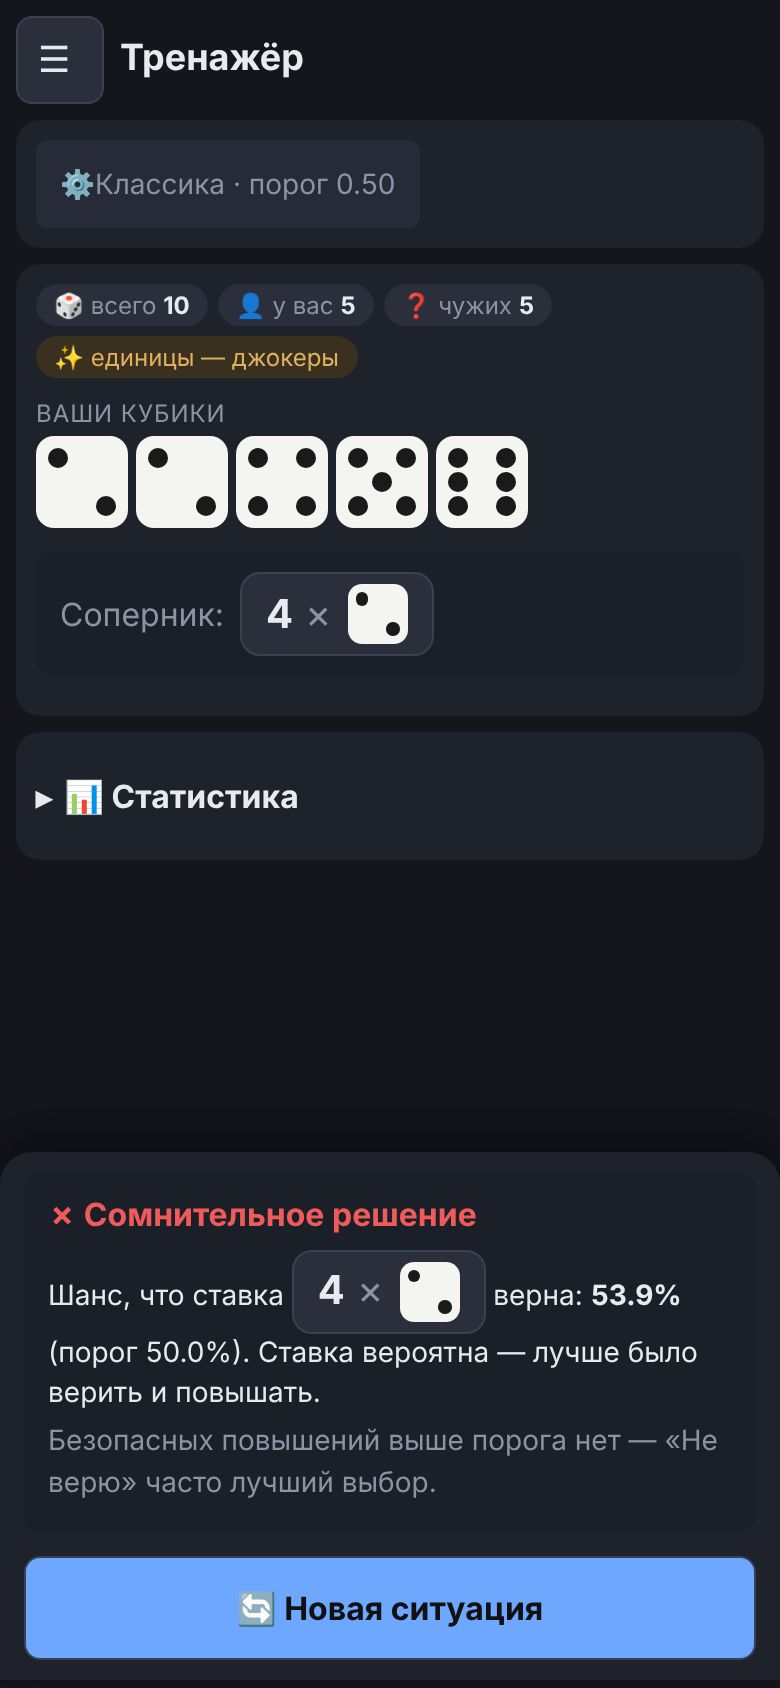
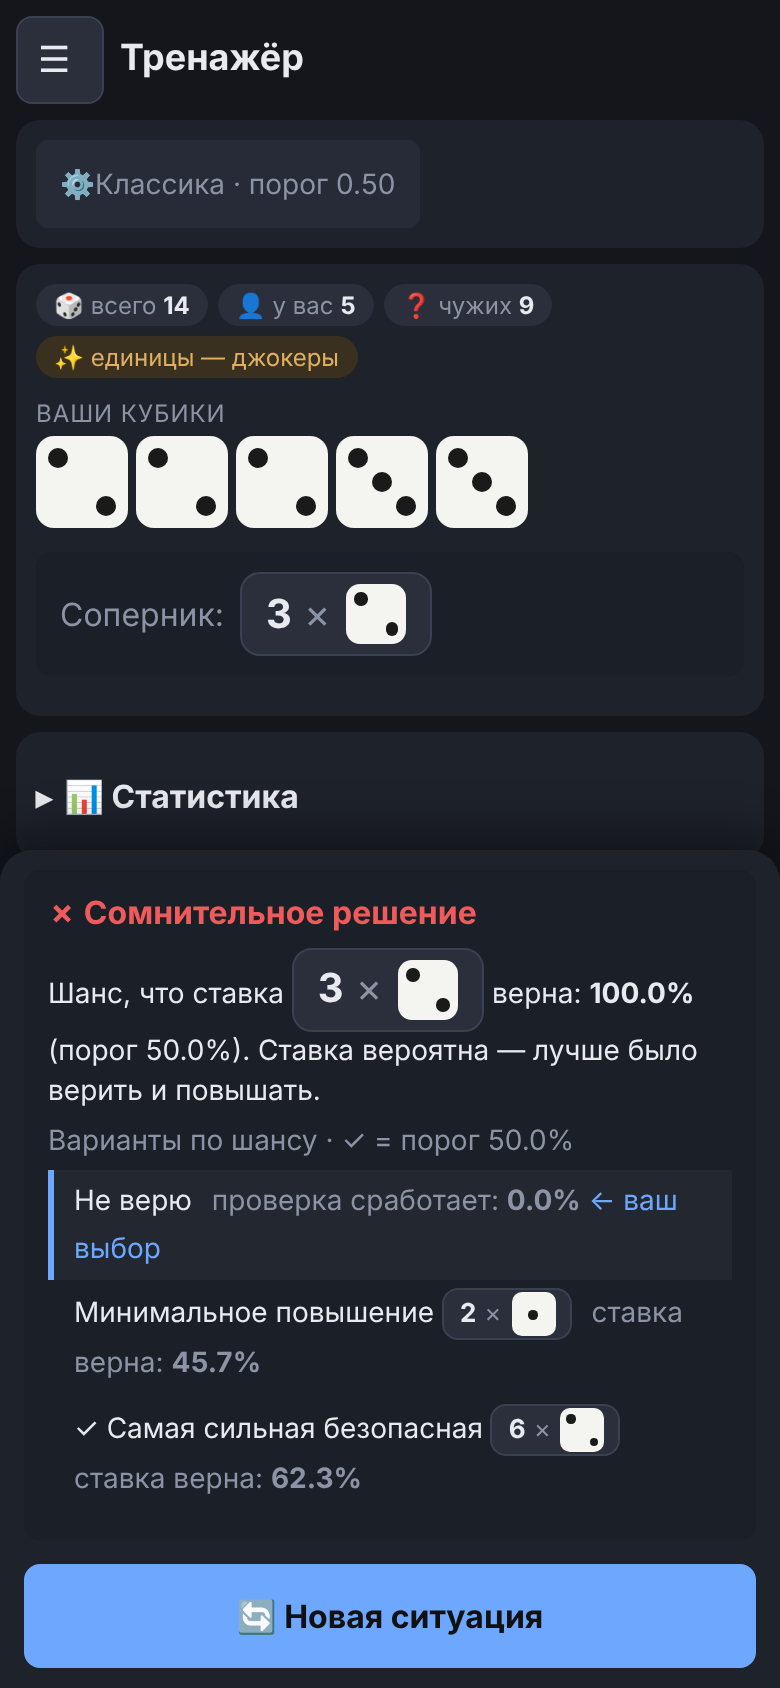
feat: Тренажёр показывает варианты хода по шансу ставки
После ответа вместо одной строки о безопасной ставке — список: «Не верю», минимальное повышение, самая сильная безопасная ставка; выбранный вариант отмечен.

diff --git a/src/ui/trainer.js b/src/ui/trainer.js
@@ -3,7 +3,8 @@
 import { getStats, updateStats, getTrainingQueue, setTrainingQueue } from '../storage.js';
 import { renderDie, renderHand, renderBid } from '../table.js';
 import { P, $, $$, pct, flash } from './common.js';
-import { MODES, modeLabel, bestSafeRaise } from './modes.js';
+import { MODES, modeLabel } from './modes.js';
+import { compareOptions, markChosen } from '../compare.js';
 
 export function setupTrainer() {
   if (!P) return;
@@ -114,19 +115,29 @@ export function setupTrainer() {
     el.textContent = `${modeLabel($('#tMode').value)} · порог ${thr}`;
   }
 
-  function bestRaiseThreshold() {
-    if (!cur) return null;
-    return bestSafeRaise(
-      { q: cur.q, f: cur.f }, cur.n, cur.h,
-      { wild: cur.m.wild }, +$('#tT').value
-    );
-  }
-
-  function hint() {
-    const b = bestRaiseThreshold();
-    return b
-      ? `<p class="muted">Самая сильная безопасная ставка: ${renderBid(b.q, b.f)} (${pct(b.p)}).</p>`
-      : '<p class="muted">Безопасных повышений выше порога нет — «Не верю» часто лучший выбор.</p>';
+  /** Варианты хода по шансу ставки; choice — что выбрал игрок: { type: 'dudo' } или { type: 'raise', q, f }. */
+  function hint(choice) {
+    if (!cur) return '';
+    const thr = +$('#tT').value;
+    const { options } = compareOptions({
+      bid: { q: cur.q, f: cur.f }, total: cur.n, hand: cur.h, wild: cur.m.wild,
+      threshold: thr, probBid: (...args) => P.probBid(...args),
+    });
+    const rows = markChosen(options, choice).map((o) => {
+      const bid = o.type === 'dudo' ? '' : ` ${renderBid(o.q, o.f, 'xs')}`;
+      const name = o.type === 'dudo' ? 'Не верю'
+        : o.type === 'safeRaise' ? 'Самая сильная безопасная'
+          : `Минимальное повышение${o.isBestSafe ? ' (она же самая сильная безопасная)' : ''}`;
+      const what = o.type === 'dudo' ? 'проверка сработает:' : 'ставка верна:';
+      return `<li class="trainer-option${o.chosen ? ' is-chosen' : ''}">` +
+        `<span class="trainer-option-name">${o.meetsThreshold ? '✓ ' : ''}${name}${bid}</span> ` +
+        `<span class="trainer-option-chance">${what} <b>${pct(o.success)}</b></span>` +
+        `${o.chosen ? ' <span class="trainer-option-mark">← ваш выбор</span>' : ''}</li>`;
+    }).join('');
+    const anySafe = options.some((o) => o.type !== 'dudo' && o.meetsThreshold);
+    return `<p class="muted">Варианты по шансу · ✓ = порог ${pct(thr)}</p>` +
+      `<ul class="trainer-options">${rows}</ul>` +
+      (anySafe ? '' : '<p class="muted">Безопасных повышений выше порога нет — «Не верю» часто лучший выбор.</p>');
   }
 
   function answer(good, html) {
@@ -169,7 +180,7 @@ export function setupTrainer() {
     const p = P.probBid(q, f, n, h, m.wild);
     const msg = p < t ? 'Ставка слишком смелая — «Не верю» оправдано.'
       : 'Ставка вероятна — лучше было верить и повышать.';
-    answer(p < t, `<p>Шанс, что ставка ${renderBid(q, f)} верна: <b>${pct(p)}</b> (порог ${pct(t)}). ${msg}</p>${hint()}`);
+    answer(p < t, `<p>Шанс, что ставка ${renderBid(q, f)} верна: <b>${pct(p)}</b> (порог ${pct(t)}). ${msg}</p>${hint({ type: 'dudo' })}`);
   };
 
   const raiseBtn = $('#tRaise');
@@ -190,7 +201,7 @@ export function setupTrainer() {
     const po = P.probBid(q, f, n, h, m.wild);
     answer(p >= t,
       `<p>Ваша ставка ${renderBid(Q, F)} верна с шансом <b>${pct(p)}</b> (порог ${pct(t)}). ` +
-      `Ставка соперника была верна с шансом ${pct(po)}.</p>${hint()}`
+      `Ставка соперника была верна с шансом ${pct(po)}.</p>${hint({ type: 'raise', q: Q, f: F })}`
     );
   };
 

diff --git a/tests/e2e/learning.spec.js b/tests/e2e/learning.spec.js
@@ -120,6 +120,44 @@ test.describe('Учебные вкладки', () => {
       await expect(page.locator('#tNext')).toBeHidden();
     });
 
+    test('после «Не верю!» показаны варианты хода, выбранный отмечен', async ({ page }) => {
+      await open(page, 'train');
+      await page.click('#tDudo');
+      const rows = page.locator('#tFb .trainer-option');
+      const count = await rows.count();
+      expect(count).toBeGreaterThanOrEqual(1);
+      expect(count).toBeLessThanOrEqual(3);
+      await expect(rows.first()).toContainText('Не верю');
+      await expect(rows.first()).toHaveClass(/is-chosen/);
+      await expect(rows.first()).toContainText('ваш выбор');
+      await expect(rows.first()).toContainText('проверка сработает:');
+      await expect(page.locator('#tFb .trainer-option.is-chosen')).toHaveCount(1);
+      await expect(page.locator('#tFb')).toContainText('Варианты по шансу');
+    });
+
+    test('после «Ставлю» варианты тоже показаны, проверка не отмечена', async ({ page }) => {
+      await open(page, 'train');
+      const total = await page.evaluate(() => Number([...document.querySelectorAll('#tInfo .trainer-chip b')][0]?.textContent));
+      await page.fill('#tQ', String(total));
+      await page.click('#tPick .face-btn[aria-label="Цифра 6"]');
+      await page.click('#tRaise');
+      const rows = page.locator('#tFb .trainer-option');
+      expect(await rows.count()).toBeGreaterThanOrEqual(1);
+      await expect(rows.first()).toContainText('Не верю');
+      await expect(rows.first()).not.toHaveClass(/is-chosen/);
+    });
+
+    test('варианты помещаются: разбор и «Новая ситуация» остаются в пределах экрана', async ({ page }) => {
+      await open(page, 'train');
+      await page.click('#tDudo');
+      const vh = page.viewportSize().height;
+      const b = await page.locator('#tFb').boundingBox();
+      expect(b.y).toBeGreaterThanOrEqual(0);
+      expect(b.y + b.height).toBeLessThanOrEqual(vh + 1);
+      const hs = await page.locator('#tFb').evaluate((el) => el.scrollWidth <= el.clientWidth + 1);
+      expect(hs, 'в разборе нет горизонтальной прокрутки').toBe(true);
+    });
+
     test('степпер и выбор цифры меняют ставку «Ставлю»', async ({ page }) => {
       await open(page, 'train');
       await expect(page.locator('#tPick .face-btn[aria-checked="true"]')).toHaveCount(1);

diff --git a/tests/compare.test.js b/tests/compare.test.js
@@ -3,7 +3,7 @@ import { describe, it } from 'node:test';
 import assert from 'node:assert/strict';
 import { readFileSync } from 'node:fs';
 import vm from 'node:vm';
-import { compareOptions, bestSafeRaise } from '../src/compare.js';
+import { compareOptions, bestSafeRaise, markChosen } from '../src/compare.js';
 import { legal } from '../src/rules.js';
 
 // Настоящие вероятности из core.js (классический скрипт — выполняем в изолированном контексте).
@@ -151,5 +151,26 @@ describe('compareOptions: с настоящими вероятностями', (
     for (const o of options.filter((x) => x.type !== 'dudo')) {
       assert.ok(legal(o.q, o.f, bid, { wild: true }));
     }
+  });
+});
+
+describe('markChosen', () => {
+  const { options } = compareOptions({ bid: { q: 3, f: 3 }, total: 12, hand: [], probBid: fake });
+  const chosen = (c) => markChosen(options, c).filter((o) => o.chosen).map((o) => o.type);
+
+  it('«не верю» отмечает вариант проверки', () => {
+    assert.deepEqual(chosen({ type: 'dudo' }), ['dudo']);
+  });
+  it('повышение совпадает с минимальным или с самой сильной безопасной ставкой', () => {
+    assert.deepEqual(chosen({ type: 'raise', q: 2, f: 1 }), ['minRaise']);
+    assert.deepEqual(chosen({ type: 'raise', q: 5, f: options[2].f }), ['safeRaise']);
+  });
+  it('ставка вне вариантов и отсутствие выбора ничего не отмечают', () => {
+    assert.deepEqual(chosen({ type: 'raise', q: 9, f: 6 }), []);
+    assert.deepEqual(chosen(null), []);
+  });
+  it('исходные варианты не меняются', () => {
+    markChosen(options, { type: 'dudo' });
+    assert.ok(options.every((o) => !('chosen' in o)));
   });
 });

diff --git a/src/css/trainer.css b/src/css/trainer.css
@@ -134,7 +134,7 @@
   font-size: 14px;
   line-height: 1.45;
   overflow-y: auto;
-  max-height: 45vh;
+  max-height: 52vh;
 }
 
 .trainer-feedback .big {
@@ -191,4 +191,30 @@
   .trainer-top {
     padding: 8px 10px;
   }
+}
+
+/* Варианты хода после ответа */
+.trainer-options {
+  list-style: none;
+  margin: 4px 0;
+  padding: 0;
+}
+.trainer-option {
+  padding: 4px 0 4px 10px;
+  line-height: 1.7;
+  border-left: 3px solid transparent;
+}
+.trainer-option.is-chosen {
+  border-left-color: var(--acc);
+  background: rgb(255 255 255 / 4%);
+}
+.trainer-option-name {
+  display: inline-block;
+  margin-right: 6px;
+}
+.trainer-option-chance {
+  color: var(--mut);
+}
+.trainer-option-mark {
+  color: var(--acc);
 }

diff --git a/src/compare.js b/src/compare.js
@@ -76,3 +76,16 @@ export function compareOptions({ bid = null, total, hand, wild = true, threshold
   }
   return { bidP, options };
 }
+
+/**
+ * Отмечает вариант, который выбрал игрок: { type: 'dudo' } или { type: 'raise', q, f }.
+ * Если выбранной ставки среди вариантов нет, не отмечается ничего.
+ */
+export function markChosen(options, choice) {
+  return options.map((o) => ({
+    ...o,
+    chosen: !!choice && (choice.type === 'dudo'
+      ? o.type === 'dudo'
+      : o.type !== 'dudo' && o.q === choice.q && o.f === choice.f),
+  }));
+}

diff --git a/README.md b/README.md
@@ -102,7 +102,7 @@
 1. Нажмите **«Новая ситуация»**.
 2. Посмотрите свои кубики и ставку соперника.
 3. Нажмите **«Не верю!»** или введите свою ставку и нажмите **«Ставлю»**.
-4. Прочитайте оценку: шанс, что ставка верна, порог и самая сильная безопасная ставка.
+4. Прочитайте оценку: шанс, что ставка верна, и порог. Ниже — **варианты хода по шансу ставки**: «Не верю» (с каким шансом проверка сработает), минимальное повышение и самая сильная безопасная ставка; ваш выбор отмечен. Это сравнение по шансам, а не оценка выигрыша: оно не говорит, какой ход «лучший», а показывает цену каждого.
 
 **Режимы** выбираются по кнопке ⚙ вверху вкладки; рядом настраивается **порог** (по умолчанию 0,5):
 
